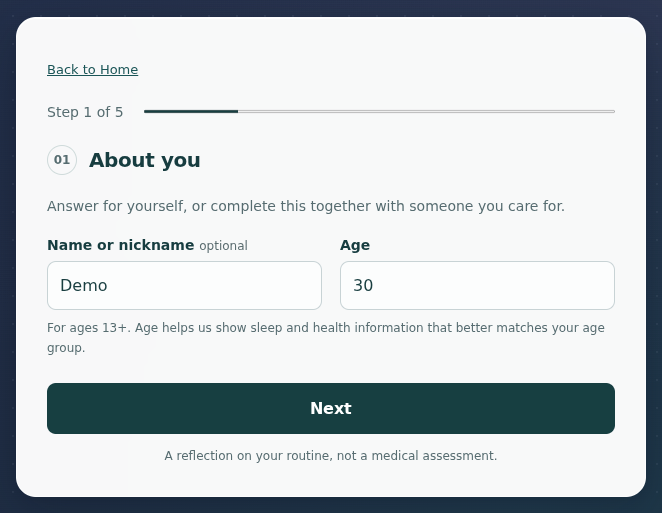
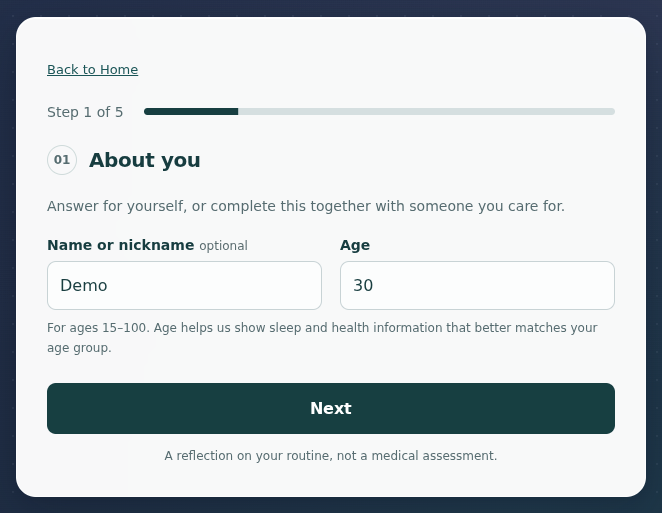
Record completed CI evidence and correct obsolete age screenshot

Changed region(s): [[0.2115, 0.1871, 0.9366, 0.2495], [0.1813, 0.6238, 0.9063, 0.655], [0.0604, 0.655, 0.1813, 0.6862]]

diff --git a/docs/review/readiness-2026-10-22.md b/docs/review/readiness-2026-10-22.md
@@ -4,13 +4,13 @@ Reviewed main `8264f82464cb96f9775473c924c3939cc8f45a35`. Proposed changes remai
 
 ## Recommendation
 
-Suitable for demonstrating an educational portfolio prototype, with the limitations below disclosed. Do not describe live research as working on the current deployment. Final submission readiness still needs review of the CI outcome and two or three first-time participants. This is not a clinical validation, a security certification, or evidence of improved health outcomes.
+Suitable for demonstrating an educational portfolio prototype, with the limitations below disclosed. Do not describe live research as working on the current deployment. Final submission readiness still needs review of the PRs and two or three first-time participants. This is not a clinical validation, a security certification, or evidence of improved health outcomes.
 
 ## Phase outcomes
 
 | Phase | Status | Evidence and remaining work |
 | --- | --- | --- |
-| Testing reliability | Partially complete | [PR 39](https://github.com/akhilsomaiya07/social-media-sense/pull/39) separates incidental screenshot capture from behavioral assertions. All requested local commands passed. First CI passed motion but hit the 10-minute job limit after a 7-minute npm install. [Repeat run](https://github.com/akhilsomaiya07/social-media-sense/actions/runs/39714017315) uses a justified 15-minute job budget and must finish before CI stability is claimed. Exact original Chromium capture stall remains unproven. |
+| Testing reliability | Complete | [PR 39](https://github.com/akhilsomaiya07/social-media-sense/pull/39) separates incidental screenshot capture from behavioral assertions. All requested local commands passed. First CI passed motion but hit the 10-minute job limit after a 7-minute npm install. [Repeat run](https://github.com/akhilsomaiya07/social-media-sense/actions/runs/39714017315) passed every stage with a justified 15-minute job budget. One full post-fix CI pass is confirmed. Exact original Chromium capture stall remains unproven. |
 | Usability review | Requires manual review | [Participant plan](usability-test-plan.md) prepared; developer review and real local browser captures completed. No human usability sessions conducted. |
 | Step 2 and report | Complete | [PR 40](https://github.com/akhilsomaiya07/social-media-sense/pull/40) clarifies navigation to saving. Eight browser cases passed. Step 2 wording and marker meanings preserved pending participant evidence. |
 | Cloudflare verification | Partially complete | All 15 deployed frontend assets match main; live journeys at four widths succeeded. Research endpoint reports missing server configuration. Private deployment records and automation settings unavailable. |
@@ -22,7 +22,11 @@ Executed successfully before the report-label change: `npm ci`, `npm run build`,
 
 Local motion covered 320/390/768/1280px with normal and reduced motion; routing and age covered those four widths. Dedicated capture generated 25 real PNGs, including eight report preference/viewport stills. Screenshot fixtures deliberately return research 503; they do not demonstrate live retrieval. See PR 39 for the precise failure diagnosis and unchanged assertions.
 
+The repeated CI run passed npm ci, standard Playwright installation, build, unit, motion, routing, age, Cloudflare dry-run, all 25 captures and artifact upload. PR 40 still inherits main's old workflow and reproduced the original screenshot timeout; review PR 39 first, then update and rerun PR 40 after approval.
+
 After the report-label change: build, unit tests and `CHROMIUM_PATH=/tmp/chromium node scripts/test-save-navigation.mjs` passed. The new test checks both primary and secondary Progress navigation at all four widths, keyboard activation, no automatic saving, explicit saving, saved wording, unchanged snapshot, overflow and page errors. Two initial fixture attempts omitted required activity hours and correctly could not reach Step 5; supplying 0 hours fixed the test data, not application validation.
+
+An additional standalone tools test initially failed because its old filesystem mock tried to open `/tools/progress` as a file on refresh. [PR 42](https://github.com/akhilsomaiya07/social-media-sense/pull/42) reuses the existing Worker routing harness. The repaired `scripts/test-results-layout.mjs` passed locally, including saved drafts, explicit deletion, reload, seven nights, controlled research success/failure, celebration and keyboard/touch behavior. No production code changed. This standalone script is not included in CI path triggers.
 
 Local limitation: standard Chromium/system-dependency installation failed (apt identity restrictions and invalid browser archives). Executed browser checks used Chromium 153.0.8010.0; CI uses the lockfile's Playwright browser installation. Local success is not equivalent to completed CI, Safari, Firefox, screen-reader, or physical-device testing.
 
@@ -49,10 +53,12 @@ No authenticated Cloudflare deployment record was available. Asset equality cann
 
 ## Repository and screenshot review
 
-README already explains purpose, audience, five steps, reports, optional tools, technology, privacy and AI assistance in first person. Avoid a broad rewrite. The restored homepage image is a fresh actual capture using the current introduction and age reassurance, with native aspect ratio. Other reviewed gallery images are retained, not automatically replaced. Existing age-review captures remain in the README. If PR 40 is merged, its tiny Next Steps label change will warrant a separately reviewed update of that affected capture; the current main screenshot remains accurate until then.
+README already explains purpose, audience, five steps, reports, optional tools, technology, privacy and AI assistance in first person. Avoid a broad rewrite. The restored homepage image is a fresh actual capture using the current introduction and age reassurance, with native aspect ratio. The old Step 1 PNG still said ages 13+; it is replaced with the actual current 15–100 capture. Other gallery images are retained, not automatically replaced. Existing age-review captures remain in the README. If PR 40 is merged, its tiny Next Steps label change will warrant a separately reviewed update of that affected capture; the current main screenshot remains accurate until then.
 
 The capture uses synthetic Demo data, fixed UTC dates and fallback research. No private browser storage or personal information was used. Reviewed desktop homepage, Step 2 explanation and mobile report captures are legible; mobile live homepage was also inspected. This is not a claim that every existing published pixel was exhaustively re-audited.
 
-Security review scope: 54 tracked source/config/document text files and patches for the six latest commits were checked for common OpenAI/GitHub/AWS credential and private-key patterns. No matching credentials were found. Runtime credential references were inspected and remain server-side. This limited scan cannot rule out arbitrary token formats, older history, deleted files or external account exposure. No full-history secret audit was performed. Current ignore rules did not protect `.env` and `.dev.vars`; the documentation-readiness PR adds ignore patterns while retaining example-file exceptions. Ignores do not remove already tracked secrets.
+Security review scope: 54 tracked source/config/document text files, patches for the six latest commits, and four additional commits affecting the Worker/research adapters were checked for common OpenAI/GitHub/AWS credential and private-key patterns. No matching credentials were found. Credential-ignore rules and example-file exceptions were exercised with git check-ignore and passed. Runtime credential references were inspected and remain server-side. This limited scan cannot rule out arbitrary token formats, older history, deleted files or external account exposure. No full-history secret audit was performed. Current ignore rules did not protect `.env` and `.dev.vars`; the documentation-readiness PR adds ignore patterns while retaining example-file exceptions. Ignores do not remove already tracked secrets.
+
+GitHub reports that the repository is currently private. Recruiters will need repository access or an owner-approved visibility change; the live website can be demonstrated separately. Visibility was not changed.
 
 Before making the repository public: run a full-history secret scan, check account/deployment settings, review these PRs, and conduct the participant sessions. Do not publish credentials or rewrite history without explicit approval. The project owner should add any personal learning reflections in their own words rather than treating generated autobiographical statements as evidence.

diff --git a/README.md b/README.md
@@ -90,7 +90,7 @@ Explicitly save summary values and compare later entries for estimated usage, pl
 
 These are **real browser screenshots** captured with fictional answers. They are not generated interface mockups or personal user records. They demonstrate the actual assessment, report and optional tools.
 
-The homepage below is a fresh browser capture of the current introduction. Other unchanged screens retain their previously reviewed captures. The age-validation examples show the supported **15 to 100** range.
+The homepage below is a fresh browser capture of the current introduction. The Step 1 capture also reflects the current age range. Other unchanged screens retain their previously reviewed captures. The age-validation examples show the supported **15 to 100** range.
 
 ### Homepage
 
@@ -217,7 +217,7 @@ npm run check:cloudflare
 
 `npm run screenshots` creates real captures from isolated, synthetic browser sessions under `artifacts/screenshots/`. It deliberately does **not** overwrite the reviewed images shown in this README. Images should be compared with the current UI before publication; do not stretch, fabricate or silently replace them.
 
-The screenshot-review workflow is being checked in [PR 39](https://github.com/akhilsomaiya07/social-media-sense/pull/39). Local build, regression checks and 25 real captures passed. The first CI attempt passed motion checks but reached its overall job limit after a seven-minute dependency install. A repeat run has a justified longer job budget; check its result before claiming complete CI coverage. [Review notes](docs/review/readiness-2026-10-22.md) distinguish completed tests from remaining checks.
+The screenshot-review workflow is being checked in [PR 39](https://github.com/akhilsomaiya07/social-media-sense/pull/39). Local build, regression checks and 25 real captures passed. The first CI attempt passed motion checks but reached its overall job limit after a seven-minute dependency install. The [repeat CI run](https://github.com/akhilsomaiya07/social-media-sense/actions/runs/39714017315) passed all stages with a justified longer job budget, including all 25 captures. [Review notes](docs/review/readiness-2026-10-22.md) distinguish completed tests from remaining checks.
 
 For developers, the main files are:
 
